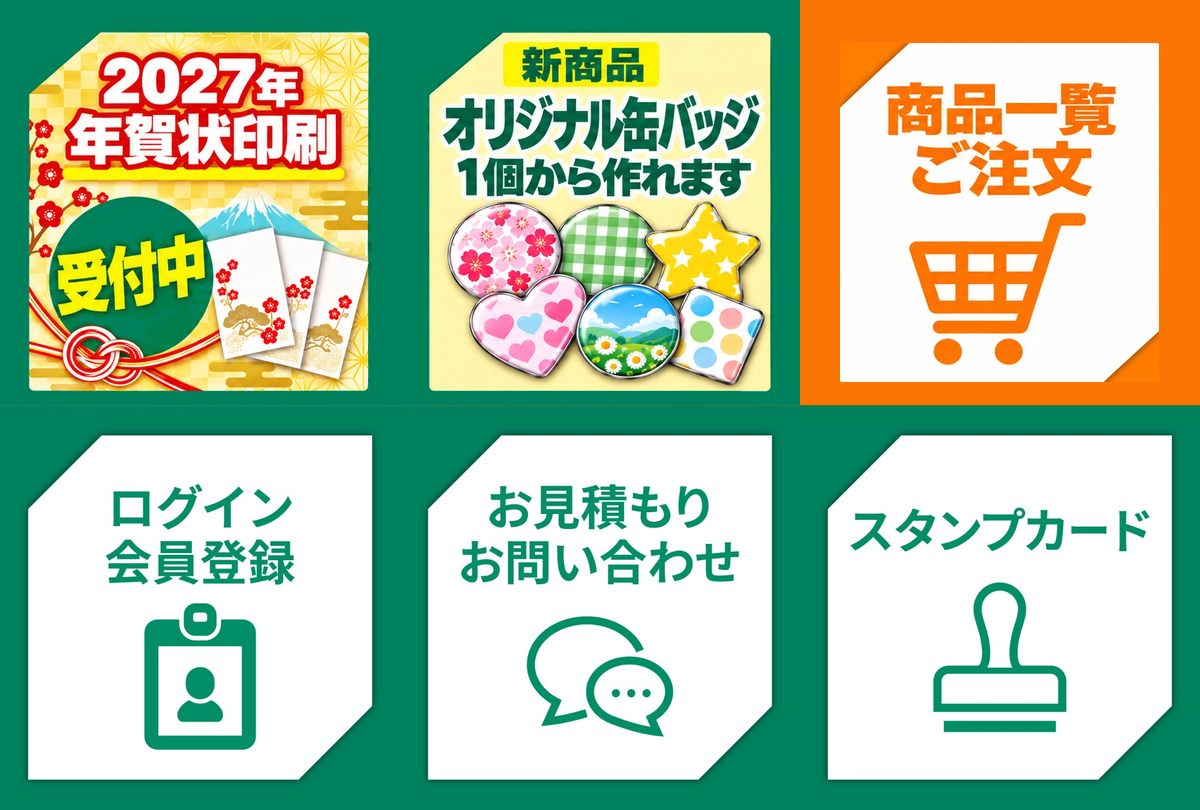
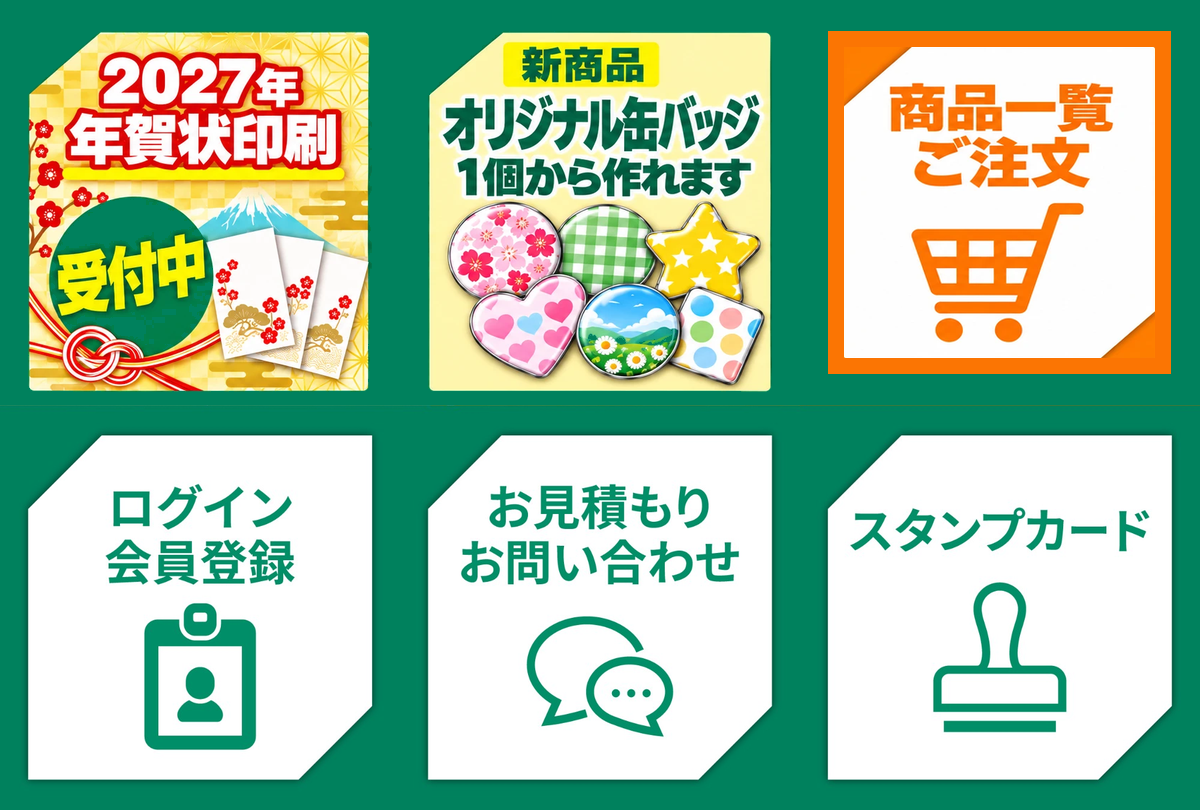
インクアート：11月リッチメニュー＝Cのオレンジの箱をスタンプカードの白枠と同じ位置・大きさに

Changed region(s): [[0.6475, 0.0, 1.0, 0.5247]]

diff --git a/_build/build_inkart_richmenu_202611.py b/_build/build_inkart_richmenu_202611.py
@@ -160,9 +160,19 @@ def rows_mode():
     cell[fix] = orange
     # 枠の上（画像の上端まで）と右（画像の右端まで）はオレンジで埋める（殿村さん 10/22「ここに緑が入る意味がない」）
     cell[0:y1 + 1, x0:] = np.where(nong[0:y1 + 1, x0:, None] & ~white_box[0:y1 + 1, x0:, None], cell[0:y1 + 1, x0:], cell[0:y1 + 1, x0:])
-    # 2026-10-26 殿村さん「Cの枠線に合わせてオレンジを大きく」→ マスC全体（白い枠の外側ぜんぶ）をオレンジに
-    cell[~white_box] = np.where(nong[~white_box][:, None] & ~(abs(cell[~white_box] - np.array(green)).sum(-1) < 60)[:, None],
-                               cell[~white_box], orange)
+    # 2026-10-26 殿村さん「スタンプカードの白枠に合わせて」→ オレンジの箱を下段右（スタンプカード）の白い枠と同じ位置・大きさにし、
+    # その中に白い枠（16px内側）と中身を入れる
+    bot = a[CH:H, 2 * CW:W]
+    bw = bot.min(-1) > 235
+    bys, bxs = np.where(bw)
+    bx0, bx1 = int(bxs.min()), int(bxs.max())
+    by0, by1 = int(bys.min()), int(bys.max())          # 下段の枠の上下（マス内の相対位置）
+    inner = Image.fromarray(cell[wys.min():wys.max() + 1, wxs.min():wxs.max() + 1].astype("uint8"))
+    pad = 16
+    inner = inner.resize((bx1 - bx0 + 1 - 2 * pad, by1 - by0 + 1 - 2 * pad), Image.LANCZOS)
+    cell[:, :] = green
+    cell[by0:by1 + 1, bx0:bx1 + 1] = orange
+    cell[by0 + pad:by0 + pad + inner.size[1], bx0 + pad:bx0 + pad + inner.size[0]] = np.array(inner)
     a[0:CH, 2 * CW:W] = cell
     out = Image.fromarray(a.astype("uint8"))
     out.save(OUT)
